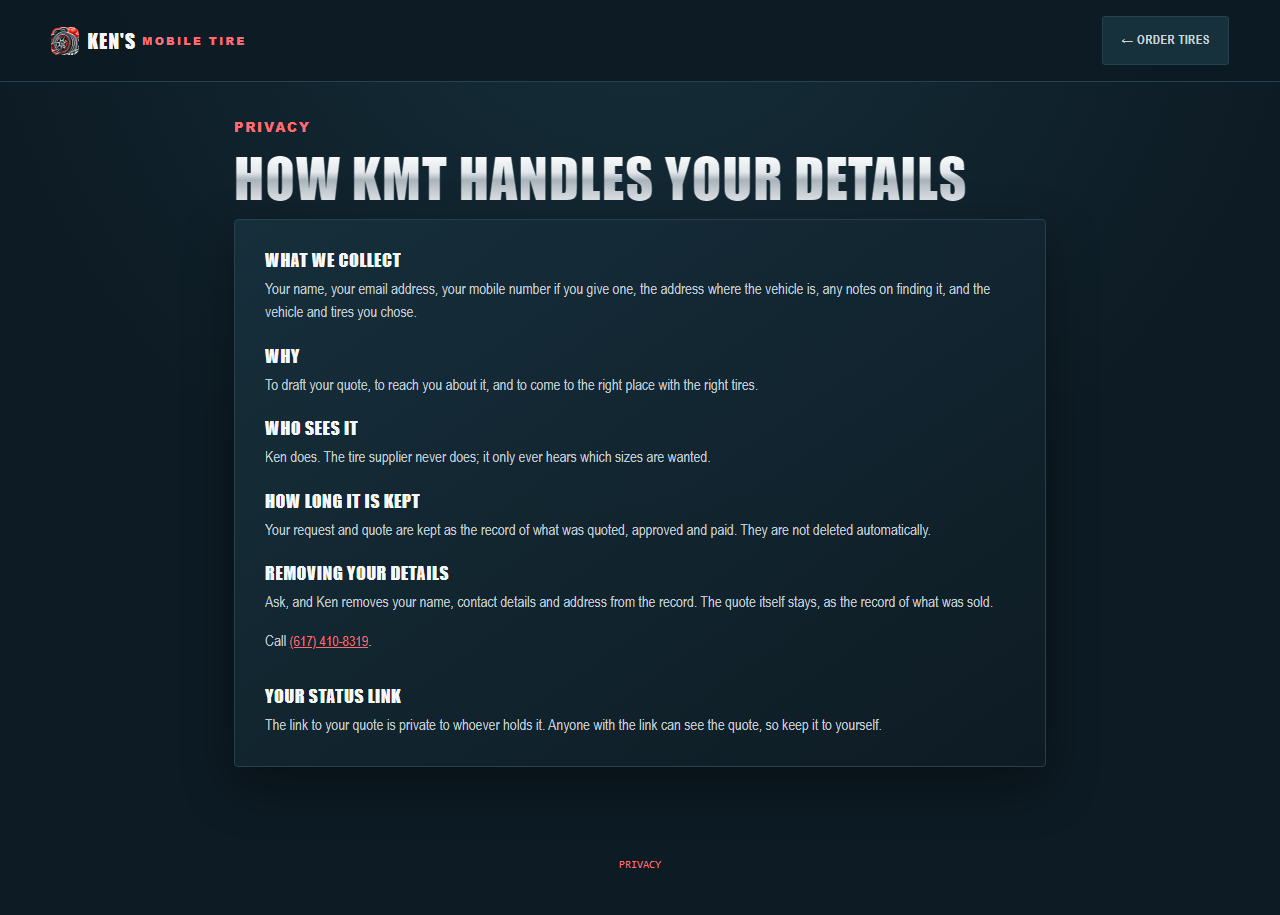
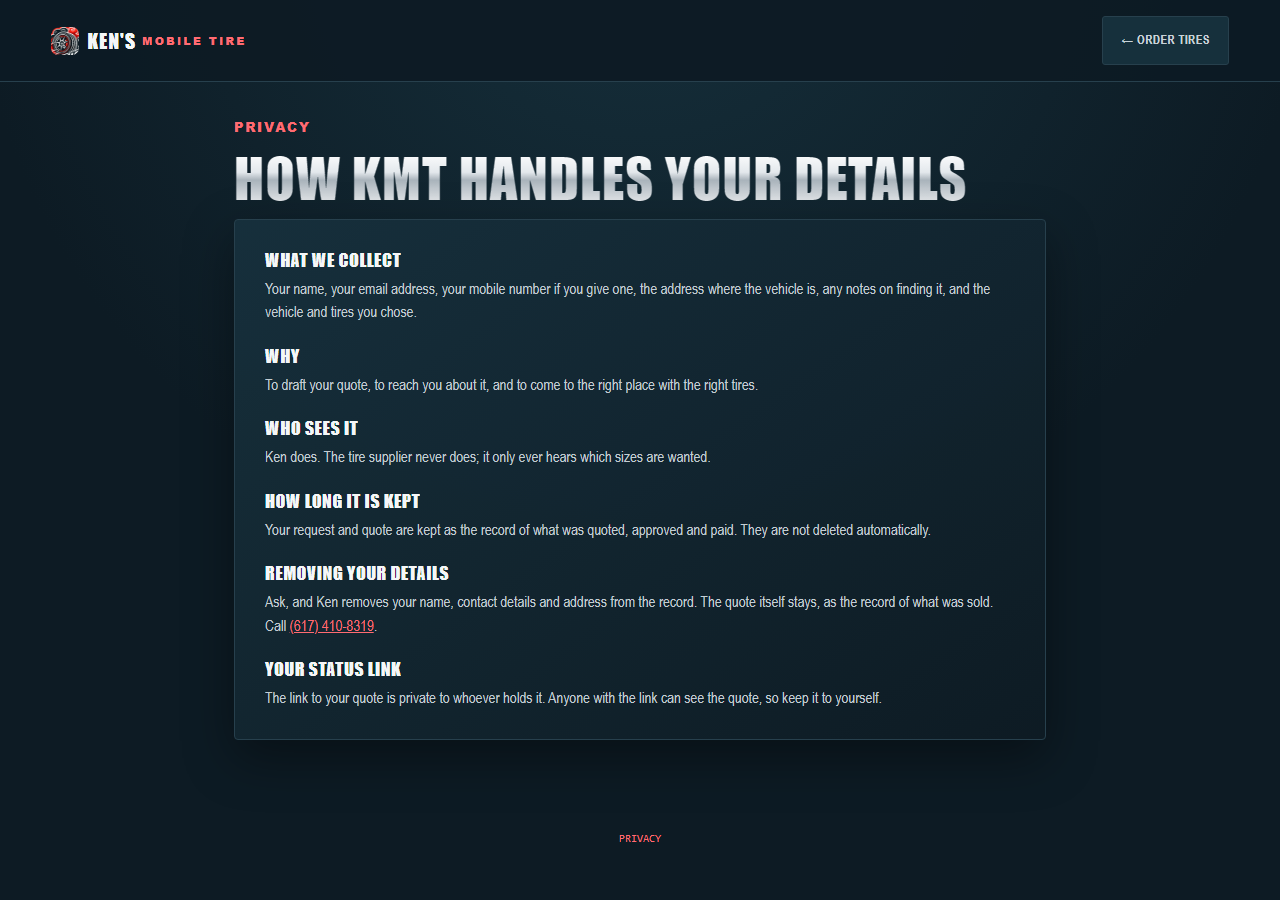
t50: the phone link inside the notice is a plain link, not a button-styled one
The link-action class carries a button's top margin, which split the
sentence it sat in; the panel's anchors take the text-red token instead.
Screenshots re-taken.

diff --git a/src/routes/Privacy.jsx b/src/routes/Privacy.jsx
@@ -28,7 +28,7 @@ function Privacy({ navigate }) {
           <h2>How long it is kept</h2>
           <p>Your request and quote are kept as the record of what was quoted, approved and paid. They are not deleted automatically.</p>
           <h2>Removing your details</h2>
-          <p>Ask, and Ken removes your name, contact details and address from the record. The quote itself stays, as the record of what was sold. Call <a href="tel:6174108319" className="link-action">(617) 410-8319</a>.</p>
+          <p>Ask, and Ken removes your name, contact details and address from the record. The quote itself stays, as the record of what was sold. Call <a href="tel:6174108319">(617) 410-8319</a>.</p>
           <h2>Your status link</h2>
           <p>The link to your quote is private to whoever holds it. Anyone with the link can see the quote, so keep it to yourself.</p>
         </div>

diff --git a/src/App.css b/src/App.css
@@ -533,6 +533,7 @@
 .privacy-panel h2 { margin: 22px 0 6px; font-size: 18px; letter-spacing: 0.5px; }
 .privacy-panel h2:first-child { margin-top: 0; }
 .privacy-panel p { margin: 0; color: var(--text); font-size: 15px; line-height: 1.55; }
+.privacy-panel a { color: var(--accent-text); }
 
 @media (max-width: 760px) {
   .customer-shell > .site-nav { flex-wrap: wrap; gap: 14px; }
